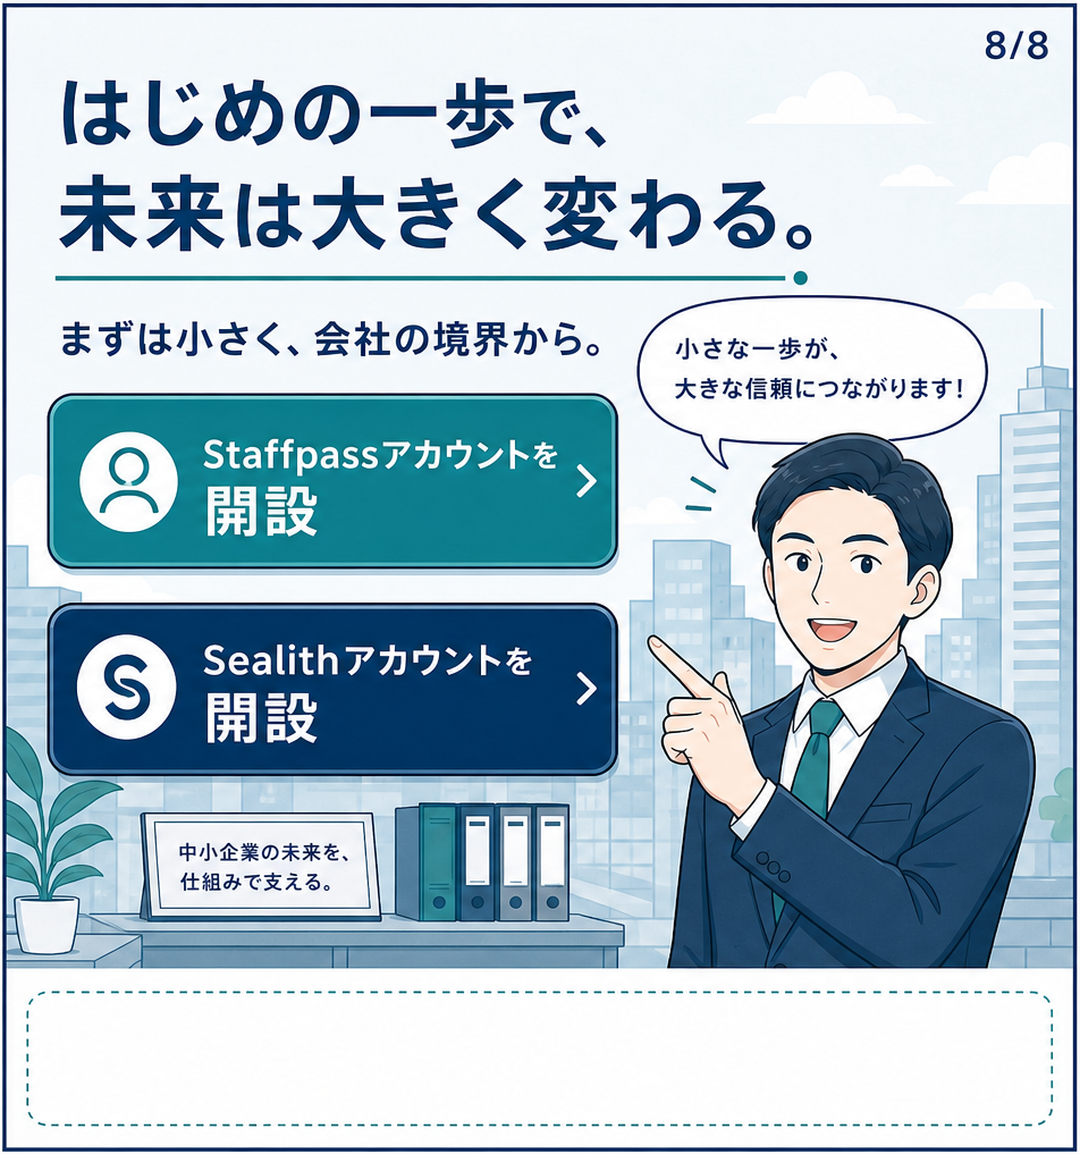
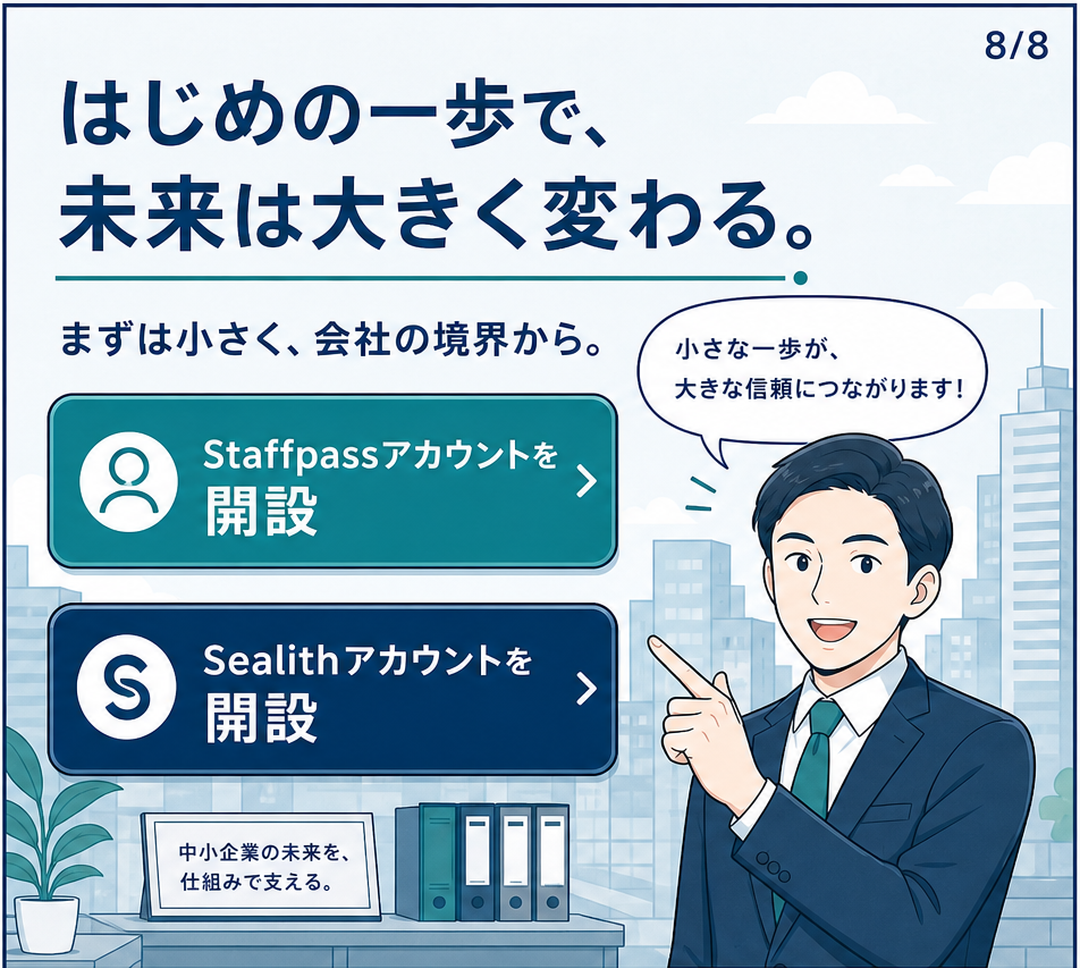
fix(manga-lp): point Sealith CTA to /lp/ai-information-management (#30)
* fix(manga-lp): point Sealith CTA to /lp/ai-information-management

Manga audience is SMB executives; story positions Sealith as confidential
file handoff / AI info management entry — that LP matches better than the
general homepage, finance-ai, or agent-commerce LPs.

* fix(manga): remove empty dashed footer from panel 8/8

Crop out the unused dotted placeholder strip at the bottom of the
final CTA panel so the manga ends cleanly on the illustration.

---------

diff --git a/app/lp/manga/page.tsx b/app/lp/manga/page.tsx
@@ -79,7 +79,7 @@ export default function MangaLP() {
               </Link>
 
               <Link
-                href="https://www.sealith.com/"
+                href="https://www.sealith.com/lp/ai-information-management"
                 target="_blank"
                 rel="noopener noreferrer"
                 className="btn btn-ghost w-full justify-center text-base border-[color-mix(in_oklab,var(--accent-strong)_30%,var(--border))] hover:border-[color-mix(in_oklab,var(--accent-strong)_50%,var(--border))]"
